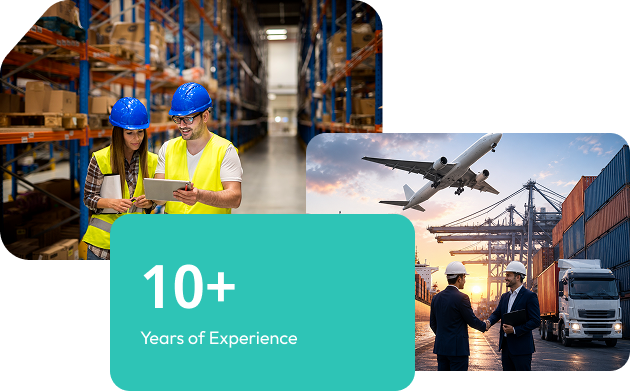
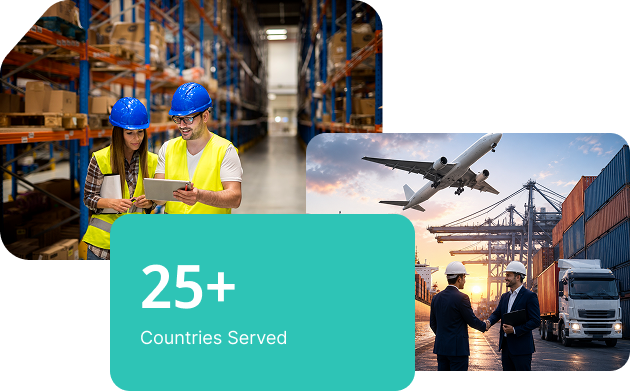
Done changess

Changed region(s): [[0.2111, 0.8286, 0.4825, 0.89], [0.2111, 0.6752, 0.3317, 0.798]]

diff --git a/src/Components/Testimonials.jsx b/src/Components/Testimonials.jsx
@@ -1,100 +1,60 @@
+import { useState } from "react";
 import { ArrowLeft, ArrowRight, Quote } from "lucide-react";
 import { containerClass } from "../utils/tailwindClasses";
+import client1 from "../assets/testimonials/indian-client-1.png";
+import client2 from "../assets/testimonials/indian-client-2.png";
+import client3 from "../assets/testimonials/indian-client-3.png";
+import client4 from "../assets/testimonials/indian-client-4.png";
+import client5 from "../assets/testimonials/indian-client-5.png";
+import client6 from "../assets/testimonials/indian-client-6.png";
+import client7 from "../assets/testimonials/indian-client-7.png";
+import client8 from "../assets/testimonials/indian-client-8.png";
 
-const people = [
-  {
-    name: "Amin Malik",
-    image: "https://images.unsplash.com/photo-1500648767791-00dcc994a43e?auto=format&fit=crop&w=220&q=80",
-  },
-  {
-    name: "Sara Khan",
-    image: "https://images.unsplash.com/photo-1494790108377-be9c29b29330?auto=format&fit=crop&w=220&q=80",
-  },
-  {
-    name: "Ravi Zha",
-    image: "https://images.unsplash.com/photo-1560250097-0b93528c311a?auto=format&fit=crop&w=220&q=80",
-    active: true,
-  },
-  {
-    name: "David Thomas",
-    image: "https://images.unsplash.com/photo-1507003211169-0a1dd7228f2d?auto=format&fit=crop&w=220&q=80",
-  },
-  {
-    name: "Nina James",
-    image: "https://images.unsplash.com/photo-1534528741775-53994a69daeb?auto=format&fit=crop&w=220&q=80",
-  },
+const testimonials = [
+  { name: "Rajiv Mehta", role: "Business Owner, Mumbai", image: client1, quote: "AHPL has been a dependable trade partner for our business. Their commitment to quality, timely shipments, and professional communication has helped us streamline our procurement process." },
+  { name: "Neha Sharma", role: "Procurement Manager, Delhi", image: client2, quote: "The team understands our requirements clearly and consistently delivers products that meet our quality standards. Working with AHPL has made sourcing much simpler." },
+  { name: "Arjun Patel", role: "Export Director, Ahmedabad", image: client3, quote: "From documentation to final delivery, every step is handled professionally. Their transparency and dependable service make them a trusted long-term partner." },
+  { name: "Priya Nair", role: "Operations Head, Bengaluru", image: client4, quote: "AHPL's responsive support and attention to detail have been exceptional. They keep us informed throughout the process and always deliver with care." },
+  { name: "Rohan Kapoor", role: "Retail Entrepreneur, Jaipur", image: client5, quote: "We value their consistent quality and flexible approach. AHPL has helped us expand our product range while maintaining the standards our customers expect." },
+  { name: "Ananya Iyer", role: "Supply Chain Consultant, Chennai", image: client6, quote: "Their market knowledge, reliable coordination, and timely execution stand out. AHPL is a partner we can confidently recommend for global sourcing needs." },
+  { name: "Vikram Desai", role: "Manufacturing Executive, Pune", image: client7, quote: "The professionalism of the AHPL team is visible in every interaction. They have supported our growth with dependable supply and excellent communication." },
+  { name: "Kavya Reddy", role: "Founder, Hyderabad", image: client8, quote: "Working with AHPL has been smooth from day one. Their product quality, prompt responses, and commitment to timelines have earned our complete trust." },
 ];
 
-const Testimonials = () => (
-  <section className="bg-white py-[82px] text-center max-md:py-[62px]">
-    <div className={containerClass}>
-      <span className="inline-flex rounded-full border border-[#2EC4B6] px-6 py-2.5 text-[11px] font-bold text-[#2EC4B6]">
-        Testimonial
-      </span>
+const Testimonials = () => {
+  const [activeIndex, setActiveIndex] = useState(0);
+  const active = testimonials[activeIndex];
+  const showPrevious = () => setActiveIndex((index) => (index - 1 + testimonials.length) % testimonials.length);
+  const showNext = () => setActiveIndex((index) => (index + 1) % testimonials.length);
 
-      <h2 className="mt-7 text-[clamp(34px,4vw,48px)] font-bold leading-tight tracking-normal text-[#172b50]">
-        Clients Testimonial
-      </h2>
+  return (
+    <section className="bg-white py-[82px] text-center max-md:py-[62px]">
+      <div className={containerClass}>
+        <span className="inline-flex rounded-full border border-[#2EC4B6] px-6 py-2.5 text-[11px] font-bold text-[#2EC4B6]">Testimonial</span>
+        <h2 className="mt-7 text-[clamp(34px,4vw,48px)] font-bold leading-tight text-[#172b50]">Clients Testimonial</h2>
 
-      <div className="mx-auto mt-11 flex max-w-[680px] items-center justify-center gap-12 max-md:gap-6 max-sm:gap-3">
-        {people.map((person) => (
-          <div
-            className={`rounded-[17px] p-1 transition duration-300 ${
-              person.active ? "border border-[#2EC4B6]" : "border border-transparent"
-            }`}
-            key={person.name}
-          >
-            <img
-              className={`rounded-[13px] object-cover ${
-                person.active ? "size-[82px] max-sm:size-[66px]" : "size-[70px] max-sm:size-[54px]"
-              }`}
-              src={person.image}
-              alt={person.name}
-            />
-          </div>
-        ))}
-      </div>
-
-      <div className="relative mx-auto mt-[62px] max-w-[920px]">
-        <button
-          className="absolute left-0 top-[72px] grid size-[34px] place-items-center rounded-full border border-[#2EC4B6] bg-white text-[#2EC4B6] transition hover:bg-[#2EC4B6] hover:text-white max-md:static max-md:mb-7 max-md:inline-grid"
-          type="button"
-          aria-label="Previous testimonial"
-        >
-          <ArrowLeft size={17} />
-        </button>
-
-        <div className="mx-auto max-w-[610px]">
-          <span className="mx-auto grid size-[46px] place-items-center rounded-full bg-[#2EC4B6] text-white">
-            <Quote className="size-6 fill-white" />
-          </span>
-
-          <p className="mx-auto mt-9 max-w-[560px] text-[15px] leading-[1.18] text-black max-md:text-sm">
-            AHPL has been a dependable trade partner for our business. Their commitment to
-            quality, timely shipments, and professional communication has helped us streamline our
-            procurement process.
-          </p>
-
-          <span className="relative mx-auto mt-5 block h-[58px] w-px bg-[#2EC4B6] after:absolute after:bottom-0 after:left-[-4px] after:size-2 after:rotate-45 after:border-b after:border-r after:border-[#2EC4B6]" />
-
-          <strong className="mt-4 block text-[15px] font-semibold leading-none text-black">
-            Ravi Zha
-          </strong>
-          <small className="mt-1 block text-[8px] leading-none text-black">
-            Business Owner, United Kingdom
-          </small>
+        <div className="mx-auto mt-11 flex max-w-[760px] items-center justify-start gap-4 overflow-x-auto px-2 py-1 [scrollbar-width:none] [&::-webkit-scrollbar]:hidden sm:justify-center">
+          {testimonials.map((person, index) => (
+            <button className={`shrink-0 rounded-[17px] p-1 transition duration-300 ${index === activeIndex ? "border border-[#2EC4B6]" : "border border-transparent opacity-70 hover:opacity-100"}`} key={person.name} onClick={() => setActiveIndex(index)} type="button" aria-label={`View testimonial from ${person.name}`}>
+              <img className={`rounded-[13px] object-cover transition-all ${index === activeIndex ? "size-[82px] max-sm:size-[66px]" : "size-[64px] max-sm:size-[54px]"}`} src={person.image} alt={person.name} loading="lazy" />
+            </button>
+          ))}
         </div>
 
-        <button
-          className="absolute right-0 top-[72px] grid size-[34px] place-items-center rounded-full border border-[#2EC4B6] bg-white text-[#2EC4B6] transition hover:bg-[#2EC4B6] hover:text-white max-md:static max-md:mt-7 max-md:inline-grid"
-          type="button"
-          aria-label="Next testimonial"
-        >
-          <ArrowRight size={17} />
-        </button>
+        <div className="relative mx-auto mt-[62px] max-w-[920px]">
+          <button className="absolute left-0 top-[72px] grid size-[34px] place-items-center rounded-full border border-[#2EC4B6] bg-white text-[#2EC4B6] transition hover:bg-[#2EC4B6] hover:text-white max-md:static max-md:mb-7 max-md:inline-grid" type="button" aria-label="Previous testimonial" onClick={showPrevious}><ArrowLeft size={17} /></button>
+          <div className="mx-auto max-w-[610px]" aria-live="polite">
+            <span className="mx-auto grid size-[46px] place-items-center rounded-full bg-[#2EC4B6] text-white"><Quote className="size-6 fill-white" /></span>
+            <p className="mx-auto mt-9 min-h-[54px] max-w-[560px] text-[15px] leading-[1.4] text-black max-md:text-sm">{active.quote}</p>
+            <span className="relative mx-auto mt-5 block h-[58px] w-px bg-[#2EC4B6] after:absolute after:bottom-0 after:left-[-4px] after:size-2 after:rotate-45 after:border-b after:border-r after:border-[#2EC4B6]" />
+            <strong className="mt-4 block text-[15px] font-semibold leading-none text-black">{active.name}</strong>
+            <small className="mt-1 block text-[9px] leading-none text-black">{active.role}</small>
+          </div>
+          <button className="absolute right-0 top-[72px] grid size-[34px] place-items-center rounded-full border border-[#2EC4B6] bg-white text-[#2EC4B6] transition hover:bg-[#2EC4B6] hover:text-white max-md:static max-md:mt-7 max-md:inline-grid" type="button" aria-label="Next testimonial" onClick={showNext}><ArrowRight size={17} /></button>
+        </div>
       </div>
-    </div>
-  </section>
-);
+    </section>
+  );
+};
 
 export default Testimonials;

diff --git a/src/pages/products/Industry-v-Belt.jsx b/src/pages/products/Industry-v-Belt.jsx
@@ -1,0 +1,92 @@
+import { useState } from "react";
+import { CheckCircle2, ChevronDown, CircleCheck, ShieldCheck } from "lucide-react";
+import { Link } from "react-router-dom";
+import Footer from "../../Components/Common/Footer";
+import { containerClass } from "../../utils/tailwindClasses";
+import heroImage from "../../assets/products-images/Industry-v-belt/hero.png";
+import aboutImage from "../../assets/products-images/Industry-v-belt/about.png";
+import whyChooseImage from "../../assets/products-images/Industry-v-belt/whychoose.png";
+import craftedBg from "../../assets/products-images/Industry-v-belt/craftedbg.png";
+
+const technicalDetails = [
+  ["Product Category", "Industrial V-Belts"],
+  ["Material", "High-Quality Rubber with Reinforced Tensile Cords"],
+  ["Belt Type", "Classical, Narrow, Cogged, Wrapped, Banded & Custom"],
+  ["Temperature Resistance", "Suitable for Industrial Operating Conditions"],
+  ["Application", "Industrial Machinery, Agriculture, Automotive & Manufacturing"],
+  ["Packaging", "Export Standard Packaging"],
+  ["Country of Origin", "India"],
+];
+
+const benefits = ["Superior Quality Materials", "High Performance", "Reliable Durability", "Precision Manufacturing"];
+const customizations = ["Custom Label Art Designs", "Size Variations", "Color & Finish Options", "Brand Logo", "Customized Packaging", "OEM Manufacturing Support"];
+const faqs = [
+  { question: "How can I place bulk export orders?", answer: "You can request a quote via our contact form or email. Our team will guide you through the MOQ, pricing tiers, packaging, documentation, and international shipment process." },
+  { question: "What customization options do you offer?", answer: "We offer custom sizing, belt profiles, colors, private labels, brand logos, export packaging, and OEM manufacturing support based on order requirements." },
+  { question: "How do you ensure export-quality packaging?", answer: "Every order is quality checked and packed using export-standard materials designed to protect the belts from moisture, dust, deformation, and transit damage." },
+  { question: "Which countries do you currently export to?", answer: "We support buyers across global markets. Contact our export team with your destination country so we can confirm logistics, documentation, and delivery options." },
+];
+
+const IndustryVBelt = () => {
+  const [openFaq, setOpenFaq] = useState(0);
+
+  return (
+    <>
+      <main className="bg-white text-[#1b3156]">
+        <section className="bg-[#eef3f7]">
+          <img className="h-auto min-h-[260px] w-full object-cover object-center max-md:min-h-[230px]" src={heroImage} alt="High-performance industrial V-belts exported from India" />
+        </section>
+
+        <section className="py-[70px] max-md:py-12">
+          <div className={`${containerClass} grid max-w-[1480px] grid-cols-[1.05fr_0.9fr] items-center gap-16 max-lg:grid-cols-1 max-lg:gap-9`}>
+            <div>
+              <h1 className="text-[clamp(34px,4.2vw,56px)] font-bold leading-[1.12] text-[#1b3156]">Reliable Power<br className="max-sm:hidden" /> Transmission <span className="text-[#30c8bb]">Solutions</span></h1>
+              <div className="mt-6 max-w-[720px] space-y-4 text-[16px] leading-[1.55] text-[#6d7480] max-md:text-[15px]">
+                <p>Ananta Horizons Pvt. Ltd. exports a comprehensive range of Industrial V-Belts that deliver superior performance, durability, and efficiency across a variety of industrial applications. Sourced from certified manufacturers, our belts are produced using high-grade materials and advanced manufacturing processes to ensure consistent quality and dependable operation.</p>
+                <p>Whether you are an importer, distributor, OEM, or industrial supplier, our V-Belts provide a reliable solution for machinery requiring efficient and uninterrupted power transmission.</p>
+              </div>
+            </div>
+            <img className="ml-auto w-full max-w-[600px] object-cover max-lg:mx-auto" src={aboutImage} alt="Industrial V-belts product range" />
+          </div>
+        </section>
+
+        <section className="pb-[78px] max-md:pb-12">
+          <div className={`${containerClass} max-w-[1600px] rounded-[28px] bg-[#1d3158] px-8 py-[76px] text-white max-md:rounded-[20px] max-md:px-4 max-md:py-10`}>
+            <h2 className="text-center text-[clamp(34px,4vw,50px)] font-bold">Technical <span className="text-[#30c8bb]">Details</span></h2>
+            <div className="mx-auto mt-7 max-w-[930px] border-t border-white/20">
+              {technicalDetails.map(([label, value]) => <div className="grid grid-cols-[0.58fr_1fr] border-b border-white/15 py-4 text-[14px] leading-relaxed max-md:grid-cols-1 max-md:gap-1" key={label}><span className="font-bold text-[#dce6f4]">{label}</span><span className="font-medium text-[#bdc9da]">{value}</span></div>)}
+            </div>
+          </div>
+        </section>
+
+        <section className="pb-[78px] max-md:pb-12">
+          <div className={`${containerClass} grid max-w-[1480px] grid-cols-[0.92fr_1fr] items-center gap-16 max-lg:grid-cols-1 max-lg:gap-9`}>
+            <img className="w-full max-w-[650px] max-lg:mx-auto" src={whyChooseImage} alt="High-quality industrial V-belts" />
+            <div>
+              <span className="inline-flex rounded-full border border-[#30c8bb] px-6 py-2 text-[12px] font-bold text-[#30c8bb]">Why Choose AHPL</span>
+              <h2 className="mt-6 text-[clamp(34px,4vw,52px)] font-bold leading-[1.12] text-black">Why Choose Our<br /><span className="text-[#30c8bb]">Industrial V-Belts?</span></h2>
+              <p className="mt-7 max-w-[680px] text-[16px] leading-[1.55] text-[#68717e]">At Ananta Horizons Pvt. Ltd., designed for reliability and efficiency, our Industrial V-Belts deliver dependable performance even in demanding operating environments.</p>
+              <div className="mt-8 grid grid-cols-2 gap-x-8 gap-y-5 max-sm:grid-cols-1">{benefits.map((benefit) => <div className="flex items-center gap-3 text-[14px] font-bold text-[#263650]" key={benefit}><CheckCircle2 className="size-5 flex-none fill-[#30c8bb] text-white" />{benefit}</div>)}</div>
+            </div>
+          </div>
+        </section>
+
+        <section className="pb-[82px] max-md:pb-12">
+          <div className={`${containerClass} relative max-w-[1600px] overflow-hidden rounded-[28px] bg-[#16325a] bg-cover bg-center px-14 py-16 text-white max-lg:px-8 max-md:rounded-[20px] max-md:px-5 max-md:py-10`} style={{ backgroundImage: `linear-gradient(90deg, rgba(12,39,76,.95) 0%, rgba(12,39,76,.8) 48%, rgba(12,39,76,.22) 100%), url("${craftedBg}")` }}>
+            <div className="grid grid-cols-[1fr_0.9fr] items-center gap-16 max-lg:grid-cols-1">
+              <div className="max-w-[650px]"><h2 className="text-[clamp(30px,3vw,44px)] font-bold">Crafted with Precision</h2><p className="mt-6 text-[15px] leading-[1.65] text-white/80">Our rigorous quality control ensures that every item leaving our facility is a masterpiece of Indian craftsmanship. We blend age-old techniques with modern manufacturing processes to deliver excellence at scale.</p><div className="mt-7 space-y-4">{["Strict Quality Checks", "Premium Raw Materials"].map((item) => <div className="flex items-center gap-3 text-sm font-bold" key={item}><ShieldCheck className="size-5 text-[#30c8bb]" />{item}</div>)}</div></div>
+              <div className="rounded-[24px] bg-white p-10 text-[#1f2937] shadow-2xl max-md:p-6"><h3 className="text-[clamp(25px,2.4vw,36px)] font-bold leading-tight">Tailored to Your Business Needs</h3><div className="mt-7 grid grid-cols-2 gap-x-6 gap-y-4 max-sm:grid-cols-1">{customizations.map((item) => <div className="flex items-start gap-2 text-[12px] font-semibold uppercase text-[#68717e]" key={item}><CircleCheck className="mt-0.5 size-4 flex-none text-[#30c8bb]" />{item}</div>)}</div><Link className="mt-8 flex min-h-12 items-center justify-center rounded-md bg-[#30c8bb] px-5 text-sm font-bold text-white no-underline transition hover:bg-[#24b8ac]" to="/contact-us">Enquire About Customization</Link></div>
+            </div>
+          </div>
+        </section>
+
+        <section className="pb-[86px] max-md:pb-14">
+          <div className={`${containerClass} max-w-[900px]`}><h2 className="text-center text-[clamp(34px,4vw,52px)] font-bold text-black">Frequently Asked <span className="text-[#30c8bb]">Questions</span></h2><div className="mt-10 space-y-4">{faqs.map((faq, index) => { const isOpen = openFaq === index; return <div className="border border-[#e2e6eb] bg-white" key={faq.question}><button className="flex w-full items-center justify-between gap-5 px-7 py-5 text-left text-[13px] font-bold uppercase text-[#4a515c]" type="button" onClick={() => setOpenFaq(isOpen ? -1 : index)} aria-expanded={isOpen}>{faq.question}<ChevronDown className={`size-4 flex-none transition ${isOpen ? "rotate-180" : ""}`} /></button>{isOpen && <p className="px-7 pb-6 text-[14px] leading-[1.65] text-[#737b87]">{faq.answer}</p>}</div>; })}</div></div>
+        </section>
+      </main>
+      <Footer />
+    </>
+  );
+};
+
+export default IndustryVBelt;

diff --git a/src/data/productCatalog.js b/src/data/productCatalog.js
@@ -12,6 +12,15 @@ const findImage = (folder, file) => {
   return entry?.[1];
 };
 
+const findGalleryImages = (folder, productNumber) => {
+  const galleryPath = `/products-images/${folder}/${productNumber}/`;
+
+  return Object.entries(imageModules)
+    .filter(([path]) => path.includes(galleryPath))
+    .sort(([firstPath], [secondPath]) => firstPath.localeCompare(secondPath, undefined, { numeric: true }))
+    .map(([, image]) => image);
+};
+
 const sharedNames = [
   "Rudra-Ansh (Black)", "Ashwa", "Mayureshwar", "Night-Charm (White)", "Gaj-Jhoola",
   "Carbon Horse", "Aura-Hawk", "Midnight Monk (White)", "Chhatrapati", "Twin Grace",
@@ -57,11 +66,17 @@ const categoryDefinitions = [
 
 export const productCatalog = categoryDefinitions.map((category) => ({
   ...category,
-  products: category.names.map((name, index) => ({
-    name,
-    slug: slugify(name),
-    image: findImage(category.folder, category.files[index]),
-  })),
+  products: category.names.map((name, index) => {
+    const image = findImage(category.folder, category.files[index]);
+    const galleryImages = findGalleryImages(category.folder, index + 1);
+
+    return {
+      name,
+      slug: slugify(name),
+      image,
+      images: galleryImages.length > 0 ? galleryImages : [image],
+    };
+  }),
 }));
 
 export const getProduct = (categorySlug, productSlug) => {

diff --git a/src/Components/Products.jsx b/src/Components/Products.jsx
@@ -7,6 +7,8 @@ import productThree from "../assets/product3.png";
 import productFour from "../assets/product4.png";
 import product5 from "../assets/product5.png";
 import product6 from "../assets/product6.png";
+import product7 from "../assets/product7.png";
+
 import { containerClass, darkEyebrowClass } from "../utils/tailwindClasses";
 
 const products = [
@@ -52,6 +54,13 @@ const products = [
     text: "Premium lifestyle & utility products that combine practical functionality, contemporary design, and exceptional craftsmanship for modern living and everyday use.",
     image: product6,
     alt: "Lifestyle & Utility for export",
+  },
+  {
+    title: "Industrial V-Belts",
+    to: "/product/industrial-v-belts",
+    text: "High-performance Industrial V-Belts engineered for reliable power transmission, exceptional durability, and efficient performance across industrial, automotive, and agricultural applications.",
+    image: product7,
+    alt: "Industrial V-Belts for export",
   },
   
 ];

diff --git a/src/App.jsx b/src/App.jsx
@@ -12,6 +12,7 @@ import MarbleDecor from "./pages/products/MarbleDecor";
 import LifestyleUtility from "./pages/products/LifestyleUtility";
 import WoodenDecore from "./pages/products/WoodenDecore";
 import ProductDetail from "./pages/products/ProductDetail";
+import IndustryVBelt from "./pages/products/Industry-v-Belt";
 import { Route, Routes } from "react-router-dom";
 
 const App = () => (
@@ -28,6 +29,7 @@ const App = () => (
       <Route path="/product/marble-decor" element={<MarbleDecor />} />
       <Route path="/product/lifestyle-utility" element={<LifestyleUtility />} />
       <Route path="/product/wooden-decor" element={<WoodenDecore />} />
+      <Route path="/product/industrial-v-belts" element={<IndustryVBelt />} />
       <Route path="/product/:categorySlug/:productSlug" element={<ProductDetail />} />
       <Route path="/blog" element={<Blog />} />
       <Route path="/contact-us" element={<Contactus />} />

diff --git a/src/Components/Common/Navbar.jsx b/src/Components/Common/Navbar.jsx
@@ -8,6 +8,7 @@ const links = [
   { label: "Home", to: "/" },
   { label: "About Us", to: "/about-us" },
   { label: "Products", to: "/product", hasDropdown: true },
+  { label: "Saffron", to: "/saffron" },
   { label: "Blog", to: "/blog" },
   { label: "Contact Us", to: "/contact-us" },
 ];
@@ -25,12 +26,8 @@ const productDropdownGroups = [
     ],
   },
   {
-    label: "Industry - V-Belt",
-    links: [{ label: "Industrial V-Belts", to: "/product#industries" }],
-  },
-  {
-    label: "Saffron ",
-    links: [{ label: "Saffron", to: "/product#industries" }],
+    label: "Industrial Goods",
+    links: [{ label: "Industrial V-Belts", to: "/product/industrial-v-belts" }],
   },
 ];
 

diff --git a/src/Components/About-about.jsx b/src/Components/About-about.jsx
@@ -7,7 +7,7 @@ const tabs = {
     content: (
       <>
         <p className="mb-6 text-gray-600 leading-8">
-          Founded in March 2026 and headquartered in Nagpur, India, AHPL was
+          Headquartered in Nagpur, India, AHPL was
           established with a clear vision to bridge the gap between India's
           diverse manufacturing landscape and the evolving demands of the global
           marketplace.

diff --git a/src/Components/Common/Footer.jsx b/src/Components/Common/Footer.jsx
@@ -20,6 +20,7 @@ const quickLinks = [
 ];
 
 const productLinks = [
+  { label: "Industrial V-Belts", to: "/product/industrial-v-belts" },
   { label: "Metal Table Decor", to: "/product/metal-table-decor" },
   { label: "Metal Wall Decor", to: "/product/metal-wall-decor" },
   { label: "Polyresin Decor", to: "/product/polyresin-decor" },

diff --git a/src/Components/Aboutus.jsx b/src/Components/Aboutus.jsx
@@ -14,8 +14,8 @@ import {
 const stats = [
   ["25+", "Countries Served"],
   ["500+", "Products Traded"],
-  ["1000+", "Successful Shipments"],
-  ["100+", "Global Clients"],
+  ["98%", "On-Time Delivery"],
+  ["24/7", "Global Support"],
 ];
 
 const Aboutus = () => (
